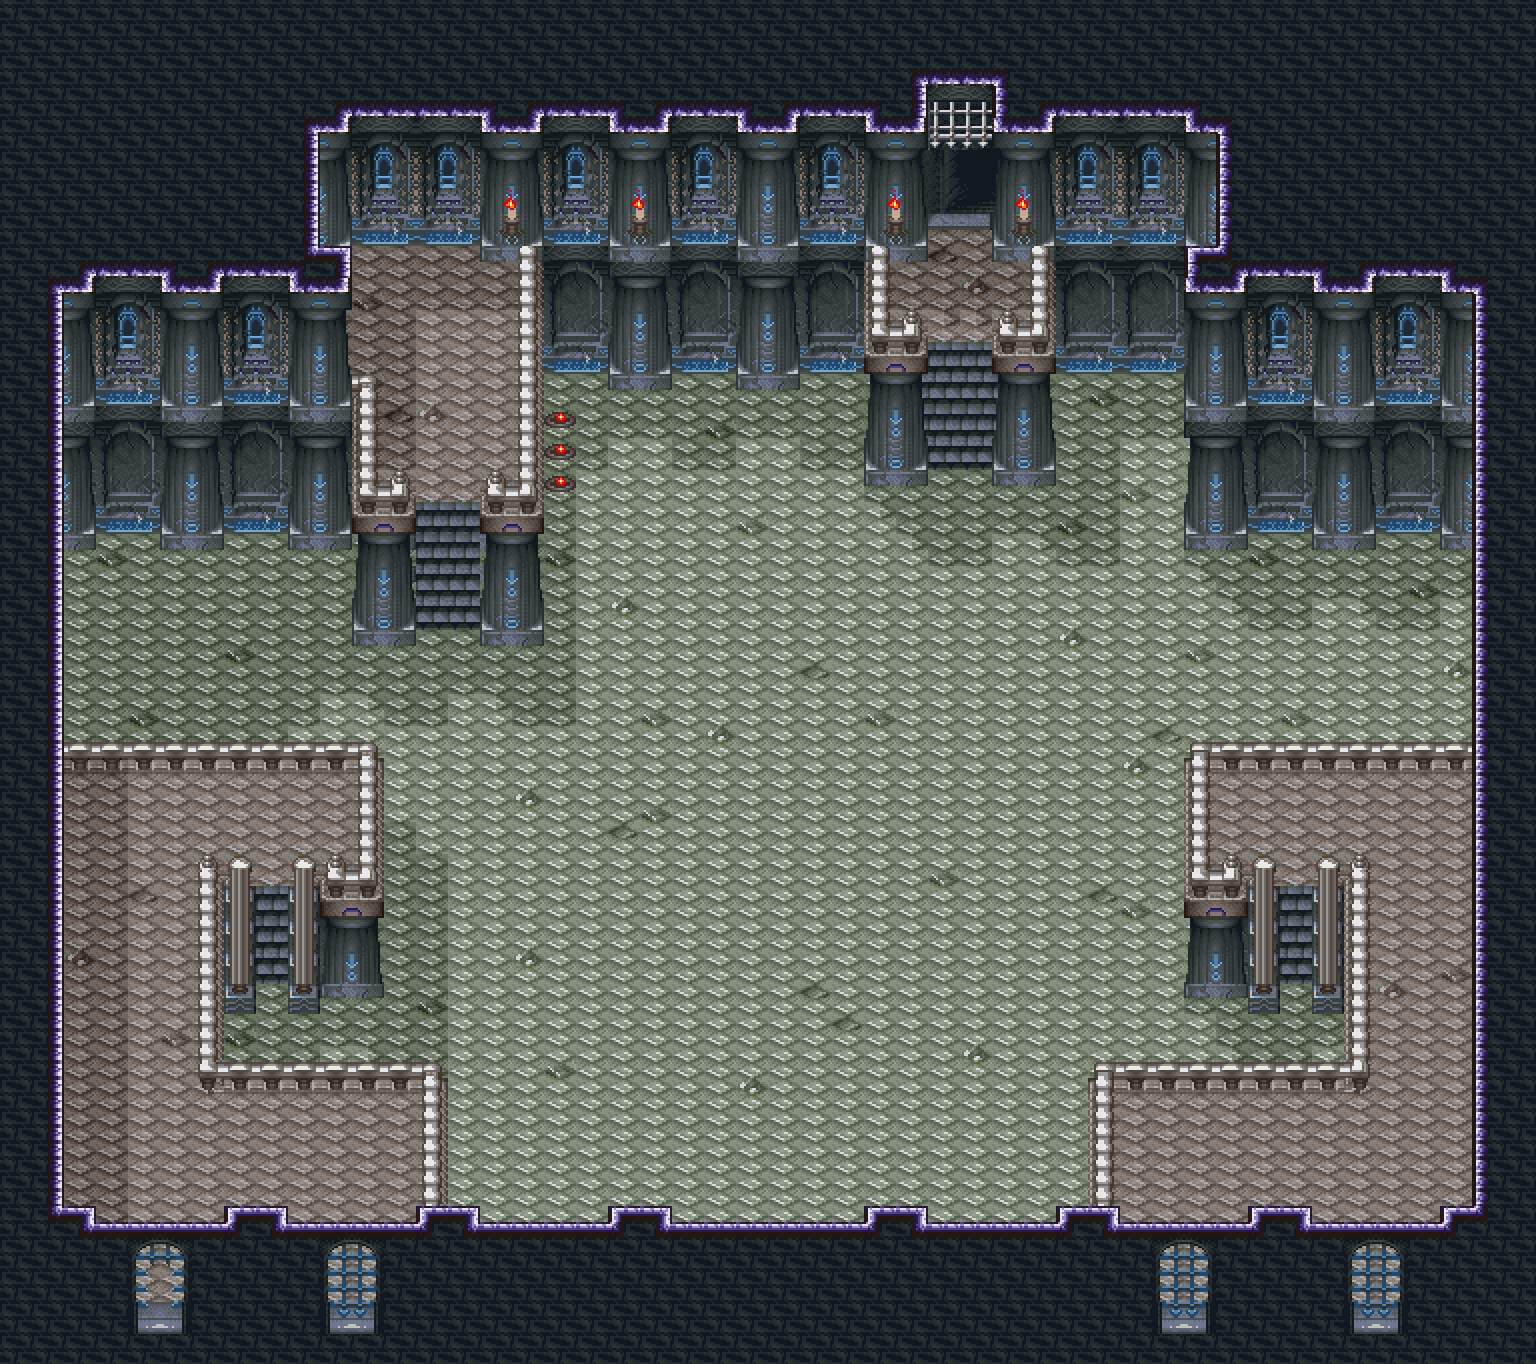
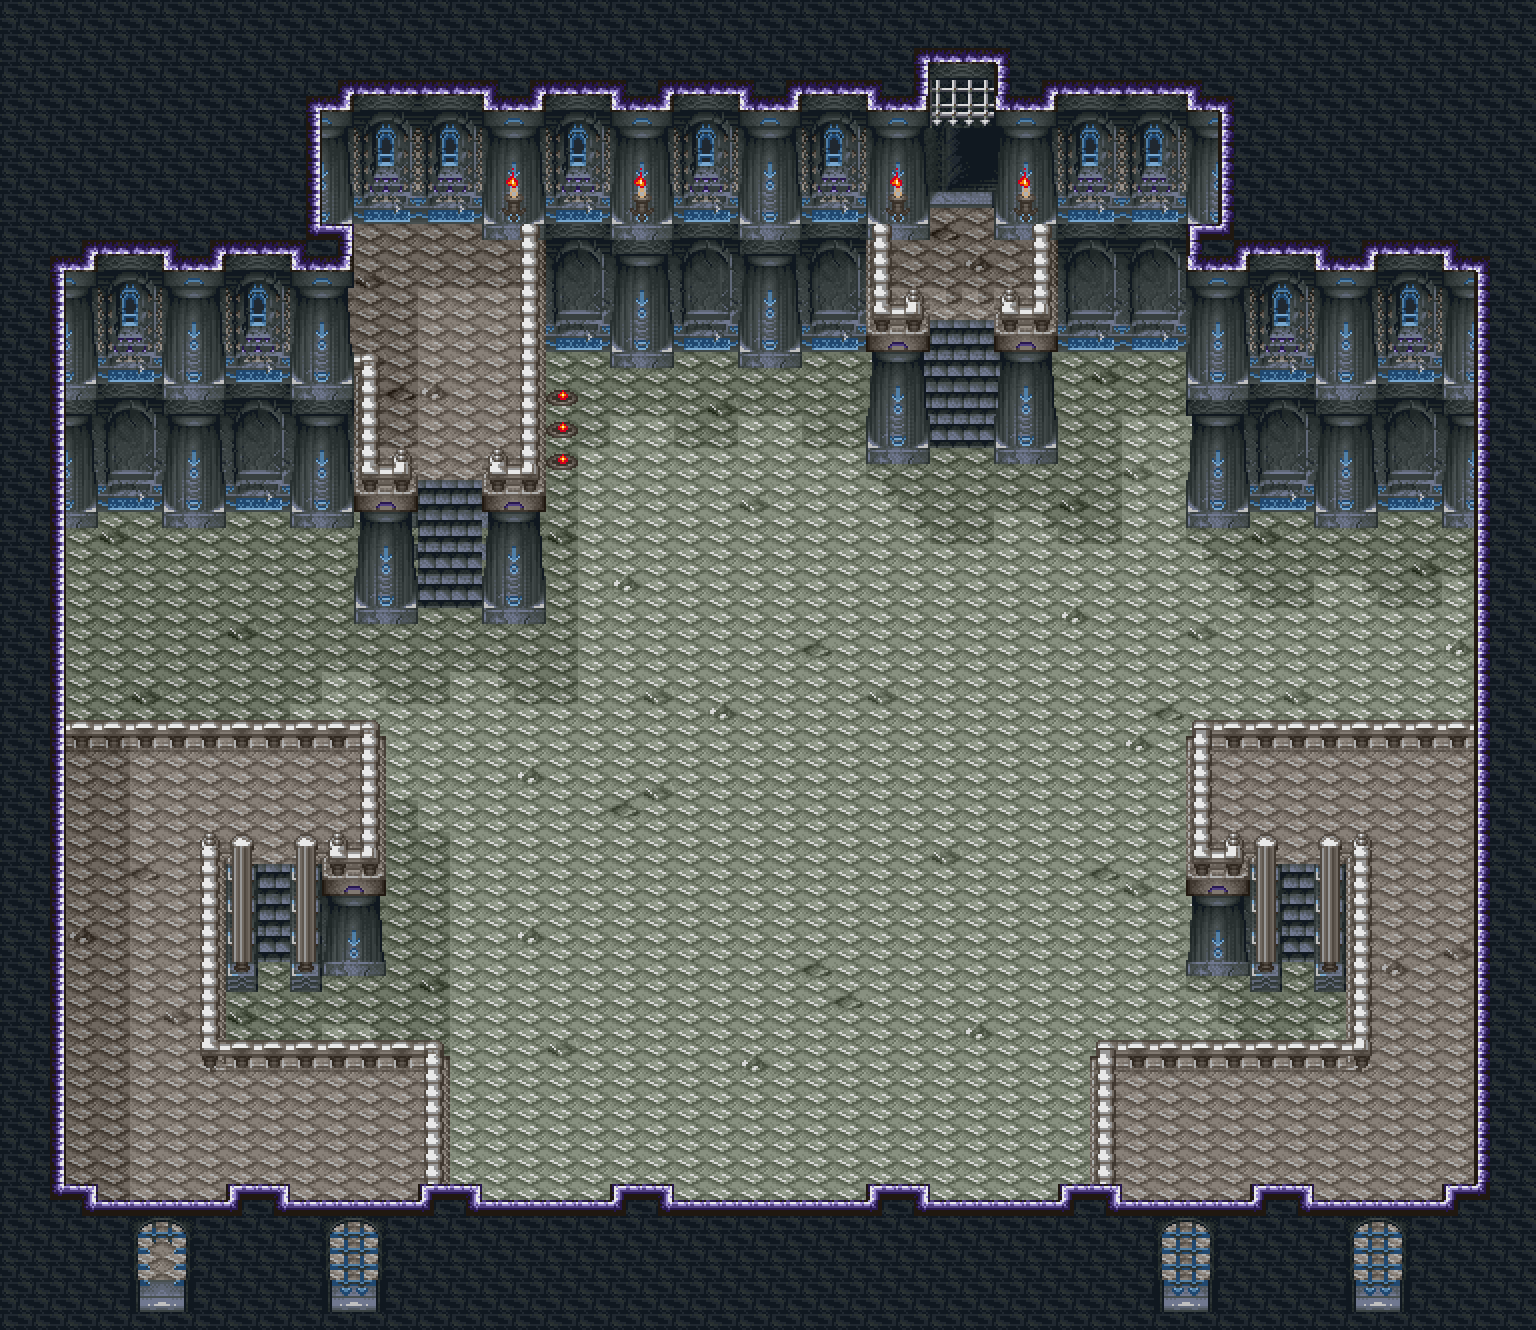
basic and slightly buggy level collision detection

diff --git a/js/class/Char.js b/js/class/Char.js
@@ -5,6 +5,7 @@ $(function() {
         var self = this;
         
         var dflt = {
+            flying: false,
             friendly: true,
             texts: []
         };
@@ -33,6 +34,9 @@ $(function() {
         this.yspeed = 0;
         
         this.put = function(xpos, ypos) {
+            xpos += this.collX;
+            ypos += this.collY;
+            
             this.xInLevel = xpos;
             this.yInLevel = ypos;
             
@@ -75,7 +79,11 @@ $(function() {
                 bgPosChanges = {x: 0, y: 0};
             
             if (this.xspeed || this.yspeed) {
-                this.checkCollisions();
+                this.checkCharCollisions();
+            }
+            
+            if (this.xspeed || this.yspeed) {
+                !this.opts.flying && this.checkLevelCollisions();
             }
             
             if (
@@ -127,7 +135,7 @@ $(function() {
             return this;
         };
         
-        this.checkCollisions = function() {
+        this.checkCharCollisions = function() {
             var self = this,
                 newX = this.xInLevel + this.xspeed,
                 newY = this.yInLevel + this.yspeed;
@@ -145,14 +153,76 @@ $(function() {
                     nextToUp    = self.yInLevel + self.collY + self.collHeight > char.yInLevel + char.collY;
                     
                 if (insideRight && insideLeft && insideDown && insideUp) {
-                    if (nextToRight && nextToLeft) self.yspeed = 0;
-                    if (nextToDown && nextToUp) self.xspeed = 0;
+                    if (nextToRight && nextToLeft) {
+                        if (self.yspeed < 0) {
+                            self.yspeed = (char.yInLevel + char.collY + char.collHeight) - (self.yInLevel + self.collY);
+                        } else {
+                            self.yspeed = (char.yInLevel + char.collY) - (self.yInLevel + self.collY + self.collHeight);
+                        }
+                    }
+                    if (nextToDown && nextToUp) {
+                        if (self.xspeed < 0) {
+                            self.xspeed = (char.xInLevel + char.collX + char.collWidth) - (self.xInLevel + self.collX);
+                        } else {
+                            self.xspeed = (char.xInLevel + char.collX) - (self.xInLevel + self.collX + self.collWidth);
+                        }
+                    }
                 }
                 
                 if (self.id === 0 && char.opts.friendly) {
                     self.canTalkTo = (insideDown && insideUp && nextToLeft && nextToRight) || (insideLeft && insideRight && nextToUp && nextToDown) ? char : null;
                 }
             });
+        };
+        
+        this.checkLevelCollisions = function() {
+            var self = this,
+                newX = this.xInLevel + this.xspeed,
+                newY = this.yInLevel + this.yspeed;
+            
+            if (
+                (
+                    this.xspeed < 0 &&
+                    (
+                        Level.coll[parseInt((this.yInLevel + this.collY) / 32)][parseInt((newX + this.collX) / 32)] ||
+                        Level.coll[parseInt((this.yInLevel + this.collY + this.collHeight) / 32)][parseInt((newX + this.collX) / 32)]
+                    )
+                ) || (
+                    this.xspeed > 0 &&
+                    (
+                        Level.coll[parseInt((this.yInLevel + this.collY) / 32)][parseInt((newX + this.collX + this.collWidth) / 32)] ||
+                        Level.coll[parseInt((this.yInLevel + this.collY + this.collHeight) / 32)][parseInt((newX + this.collX + this.collWidth) / 32)]
+                    )
+                )
+            ) {
+                if (self.xspeed < 0) {
+                    self.xspeed = (this.xInLevel + this.collX) - parseInt((this.xInLevel + this.collX) / 32) * 32;console.log(this.xInLevel + this.collX);
+                } else {
+                    self.xspeed = parseInt((this.xInLevel + this.collX + this.collWidth) / 32) * 32 - (this.xInLevel + this.collX);
+                }
+            }
+            
+            if (
+                (
+                    this.yspeed < 0 &&
+                    (
+                        Level.coll[parseInt((newY + this.collY) / 32)][parseInt((this.xInLevel + this.collX) / 32)] ||
+                        Level.coll[parseInt((newY + this.collY) / 32)][parseInt((this.xInLevel + this.collX + this.collWidth) / 32)]
+                    )
+                ) || (
+                    this.yspeed > 0 &&
+                    (
+                        Level.coll[parseInt((newY + this.collY + this.collHeight) / 32)][parseInt((this.xInLevel + this.collX) / 32)] ||
+                        Level.coll[parseInt((newY + this.collY + this.collHeight) / 32)][parseInt((this.xInLevel + this.collX + this.collWidth) / 32)]
+                    )
+                )
+            ) {
+                if (self.yspeed < 0) {
+                    self.yspeed = (this.yInLevel + this.collY) - parseInt((this.yInLevel + this.collY) / 32) * 32;
+                } else {
+                    self.yspeed = parseInt((this.yInLevel + this.collY + this.collHeight) / 32) * 32 - (this.yInLevel + this.collY);
+                }
+            }
         };
         
         this.nearLeftBorder = function() {

diff --git a/js/level/tower.js b/js/level/tower.js
@@ -2,6 +2,51 @@
     Level.prepare({
         bottomLayer: 'tower.png',
         width: 1536,
-        height: 1364
+        height: 1330,
+        coll: [
+           //                  10                  20                  30                  40
+            [1,1,1,1,1,1,1,1,1,1,1,1,1,1,1,1,1,1,1,1,1,1,1,1,1,1,1,1,1,1,1,1,1,1,1,1,1,1,1,1,1,1,1,1,1,1,1,1],
+            [1,1,1,1,1,1,1,1,1,1,1,1,1,1,1,1,1,1,1,1,1,1,1,1,1,1,1,1,1,1,1,1,1,1,1,1,1,1,1,1,1,1,1,1,1,1,1,1],
+            [1,1,1,1,1,1,1,1,1,1,1,1,1,1,1,1,1,1,1,1,1,1,1,1,1,1,1,1,1,1,1,1,1,1,1,1,1,1,1,1,1,1,1,1,1,1,1,1],
+            [1,1,1,1,1,1,1,1,1,1,1,1,1,1,1,1,1,1,1,1,1,1,1,1,1,1,1,1,1,1,1,1,1,1,1,1,1,1,1,1,1,1,1,1,1,1,1,1],
+            [1,1,1,1,1,1,1,1,1,1,1,1,1,1,1,1,1,1,1,1,1,1,1,1,1,1,1,1,1,1,1,1,1,1,1,1,1,1,1,1,1,1,1,1,1,1,1,1],
+            [1,1,1,1,1,1,1,1,1,1,1,1,1,1,1,1,1,1,1,1,1,1,1,1,1,1,1,1,1,1,0,1,1,1,1,1,1,1,1,1,1,1,1,1,1,1,1,1],
+            [1,1,1,1,1,1,1,1,1,1,1,1,1,1,1,1,1,1,1,1,1,1,1,1,1,1,1,1,1,0,0,1,1,1,1,1,1,1,1,1,1,1,1,1,1,1,1,1],
+            [1,1,1,1,1,1,1,1,1,1,1,0,0,0,0,0,1,1,1,1,1,1,1,1,1,1,1,1,0,0,0,0,1,1,1,1,1,1,1,1,1,1,1,1,1,1,1,1],
+            [1,1,1,1,1,1,1,1,1,1,1,0,0,0,0,0,1,1,1,1,1,1,1,1,1,1,1,1,0,0,0,0,1,1,1,1,1,1,1,1,1,1,1,1,1,1,1,1],
+            [1,1,1,1,1,1,1,1,1,1,1,0,0,0,0,0,1,1,1,1,1,1,1,1,1,1,1,1,1,0,0,1,1,1,1,1,1,1,1,1,1,1,1,1,1,1,1,1],
+            [1,1,1,1,1,1,1,1,1,1,1,0,0,0,0,0,1,1,1,1,1,1,1,1,1,1,1,1,1,0,0,1,1,1,1,1,1,1,1,1,1,1,1,1,1,1,1,1],
+            [1,1,1,1,1,1,1,1,1,1,1,1,0,0,0,0,1,0,0,0,0,0,0,0,0,0,0,1,1,0,0,1,1,0,0,0,0,1,1,1,1,1,1,1,1,1,1,1],
+            [1,1,1,1,1,1,1,1,1,1,1,1,0,0,0,0,1,1,0,0,0,0,0,0,0,0,0,1,1,0,0,1,1,0,0,0,0,1,1,1,1,1,1,1,1,1,1,1],
+            [1,1,1,1,1,1,1,1,1,1,1,1,0,0,0,0,1,1,0,0,0,0,0,0,0,0,0,1,1,0,0,1,1,0,0,0,0,1,1,1,1,1,1,1,1,1,1,1],
+            [1,1,1,1,1,1,1,1,1,1,1,1,1,0,0,1,1,1,0,0,0,0,0,0,0,0,0,0,0,0,0,0,0,0,0,0,0,1,1,1,1,1,1,1,1,1,1,1],
+            [1,1,1,1,1,1,1,1,1,1,1,1,1,0,0,1,1,0,0,0,0,0,0,0,0,0,0,0,0,0,0,0,0,0,0,0,0,1,1,1,1,1,1,1,1,1,1,1],
+            [1,1,0,0,0,0,0,0,0,0,0,1,1,0,0,1,1,0,0,0,0,0,0,0,0,0,0,0,0,0,0,0,0,0,0,0,0,0,0,0,0,0,0,0,0,0,1,1],
+            [1,1,0,0,0,0,0,0,0,0,0,1,1,0,0,1,1,0,0,0,0,0,0,0,0,0,0,0,0,0,0,0,0,0,0,0,0,0,0,0,0,0,0,0,0,0,1,1],
+            [1,1,0,0,0,0,0,0,0,0,0,1,1,0,0,1,1,0,0,0,0,0,0,0,0,0,0,0,0,0,0,0,0,0,0,0,0,0,0,0,0,0,0,0,0,0,1,1],
+            [1,1,0,0,0,0,0,0,0,0,0,0,0,0,0,0,0,0,0,0,0,0,0,0,0,0,0,0,0,0,0,0,0,0,0,0,0,0,0,0,0,0,0,0,0,0,1,1],
+            [1,1,0,0,0,0,0,0,0,0,0,0,0,0,0,0,0,0,0,0,0,0,0,0,0,0,0,0,0,0,0,0,0,0,0,0,0,0,0,0,0,0,0,0,0,0,1,1],
+            [1,1,0,0,0,0,0,0,0,0,0,0,0,0,0,0,0,0,0,0,0,0,0,0,0,0,0,0,0,0,0,0,0,0,0,0,0,0,0,0,0,0,0,0,0,0,1,1],
+            [1,1,1,1,1,1,1,1,1,1,1,1,0,0,0,0,0,0,0,0,0,0,0,0,0,0,0,0,0,0,0,0,0,0,0,0,0,1,1,1,1,1,1,1,1,1,1,1],
+            [1,1,0,0,0,0,0,0,0,0,0,1,0,0,0,0,0,0,0,0,0,0,0,0,0,0,0,0,0,0,0,0,0,0,0,0,0,1,0,0,0,0,0,0,0,0,1,1],
+            [1,1,0,0,0,0,0,0,0,0,0,1,0,0,0,0,0,0,0,0,0,0,0,0,0,0,0,0,0,0,0,0,0,0,0,0,0,1,0,0,0,0,0,0,0,0,1,1],
+            [1,1,0,0,0,0,0,0,0,0,0,1,0,0,0,0,0,0,0,0,0,0,0,0,0,0,0,0,0,0,0,0,0,0,0,0,0,1,0,0,0,0,0,0,0,0,1,1],
+            [1,1,0,0,0,0,1,1,0,1,1,1,0,0,0,0,0,0,0,0,0,0,0,0,0,0,0,0,0,0,0,0,0,0,0,0,0,1,1,1,0,1,1,0,0,0,1,1],
+            [1,1,0,0,0,0,1,1,0,1,1,1,0,0,0,0,0,0,0,0,0,0,0,0,0,0,0,0,0,0,0,0,0,0,0,0,0,1,1,1,0,1,1,0,0,0,1,1],
+            [1,1,0,0,0,0,1,1,0,1,1,1,0,0,0,0,0,0,0,0,0,0,0,0,0,0,0,0,0,0,0,0,0,0,0,0,0,1,1,1,0,1,1,0,0,0,1,1],
+            [1,1,0,0,0,0,1,1,0,1,1,1,0,0,0,0,0,0,0,0,0,0,0,0,0,0,0,0,0,0,0,0,0,0,0,0,0,1,1,1,0,1,1,0,0,0,1,1],
+            [1,1,0,0,0,0,1,1,0,1,0,0,0,0,0,0,0,0,0,0,0,0,0,0,0,0,0,0,0,0,0,0,0,0,0,0,0,0,0,1,0,1,1,0,0,0,1,1],
+            [1,1,0,0,0,0,1,0,0,0,0,0,0,0,0,0,0,0,0,0,0,0,0,0,0,0,0,0,0,0,0,0,0,0,0,0,0,0,0,0,0,0,1,0,0,0,1,1],
+            [1,1,0,0,0,0,1,1,1,1,1,1,1,1,0,0,0,0,0,0,0,0,0,0,0,0,0,0,0,0,0,0,0,0,1,1,1,1,1,1,1,1,1,0,0,0,1,1],
+            [1,1,0,0,0,0,0,0,0,0,0,0,0,1,0,0,0,0,0,0,0,0,0,0,0,0,0,0,0,0,0,0,0,0,1,0,0,0,0,0,0,0,0,0,0,0,1,1],
+            [1,1,0,0,0,0,0,0,0,0,0,0,0,1,0,0,0,0,0,0,0,0,0,0,0,0,0,0,0,0,0,0,0,0,1,0,0,0,0,0,0,0,0,0,0,0,1,1],
+            [1,1,0,0,0,0,0,0,0,0,0,0,0,1,0,0,0,0,0,0,0,0,0,0,0,0,0,0,0,0,0,0,0,0,1,0,0,0,0,0,0,0,0,0,0,0,1,1],
+            [1,1,0,0,0,0,0,0,0,0,0,0,0,1,0,0,0,0,0,0,0,0,0,0,0,0,0,0,0,0,0,0,0,0,1,0,0,0,0,0,0,0,0,0,0,0,1,1],
+            [1,1,1,1,1,1,1,1,1,1,1,1,1,1,1,1,1,1,1,1,1,1,1,1,1,1,1,1,1,1,1,1,1,1,1,1,1,1,1,1,1,1,1,1,1,1,1,1],
+            [1,1,1,1,1,1,1,1,1,1,1,1,1,1,1,1,1,1,1,1,1,1,1,1,1,1,1,1,1,1,1,1,1,1,1,1,1,1,1,1,1,1,1,1,1,1,1,1],
+            [1,1,1,1,1,1,1,1,1,1,1,1,1,1,1,1,1,1,1,1,1,1,1,1,1,1,1,1,1,1,1,1,1,1,1,1,1,1,1,1,1,1,1,1,1,1,1,1],
+            [1,1,1,1,1,1,1,1,1,1,1,1,1,1,1,1,1,1,1,1,1,1,1,1,1,1,1,1,1,1,1,1,1,1,1,1,1,1,1,1,1,1,1,1,1,1,1,1],
+            [1,1,1,1,1,1,1,1,1,1,1,1,1,1,1,1,1,1,1,1,1,1,1,1,1,1,1,1,1,1,1,1,1,1,1,1,1,1,1,1,1,1,1,1,1,1,1,1]
+        ]
     });
 })();

diff --git a/js/class/Char/Hero.js b/js/class/Char/Hero.js
@@ -17,10 +17,10 @@ $(function() {
             moveAllowed = false,
             dir = 0;
         
-        this.collWidth = 32;
-        this.collHeight = 32;
-        this.collX = parseInt(this.$char.width() / 2 - this.collWidth / 2);
-        this.collY = this.$char.height() - this.collHeight;
+        this.collWidth = 30;
+        this.collHeight = 30;
+        this.collX = parseInt(this.width / 2 - this.collWidth / 2);
+        this.collY = this.height - this.collHeight;
         
         this.canTalkTo = null;
         
@@ -51,8 +51,12 @@ $(function() {
                     movement.x += moveMap[key][0] * speed;
                     movement.y += moveMap[key][1] * speed;
                     speed /= 2;
-                    if (!moving) dir = moveMap[key][2];
-                    moving = true;
+                    if (!moving) {
+                        dir = moveMap[key][2];
+                        moving = true;
+                    } else {
+                        return false;
+                    }
                 }
             });
             

diff --git a/js/class/Level.js b/js/class/Level.js
@@ -7,6 +7,8 @@ Level = new function() {
     this.x = 0;
     this.y = 0;
     
+    this.coll = [];
+    
     this.getGrid = function() {
         var grid = [];
         for (var i = 0; i < 15; i++) {
@@ -30,6 +32,7 @@ Level = new function() {
     this.prepare = function(params) {
         this.width = params.width;
         this.height = params.height;
+        this.coll = params.coll;
         
         $level.css({
             background: 'url(img/level/' + params.bottomLayer + ') no-repeat 0 0',
